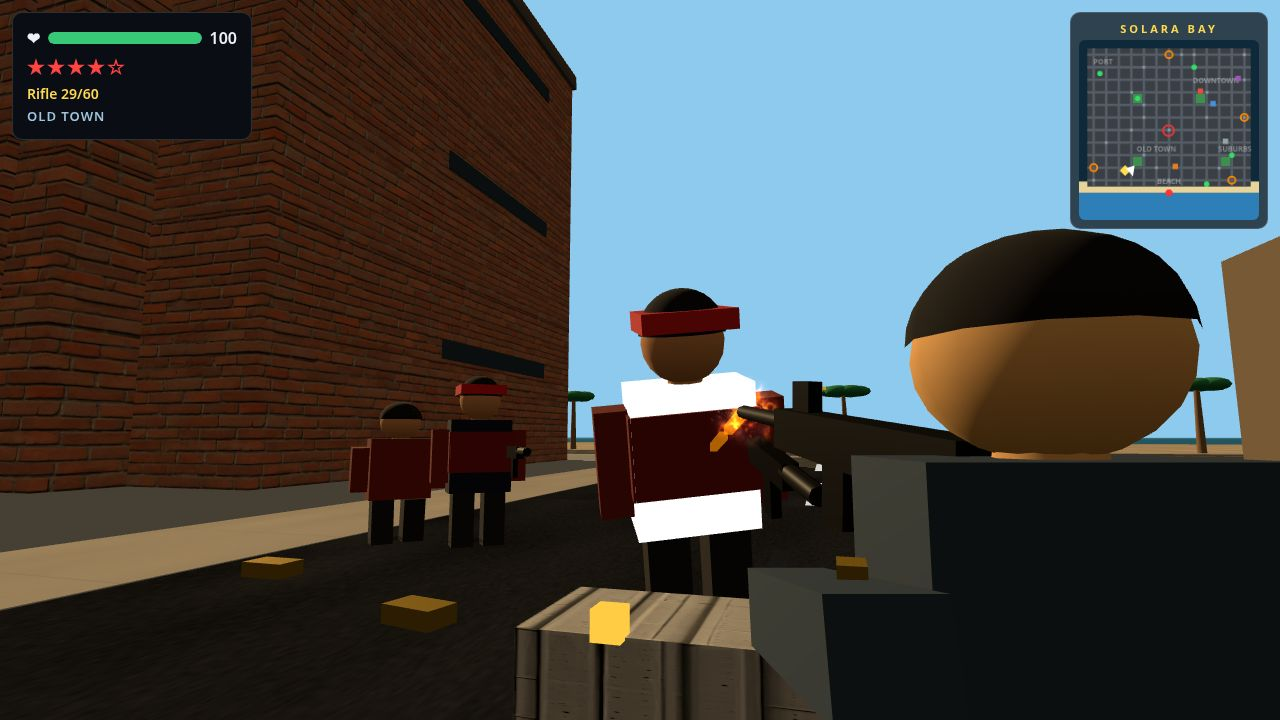
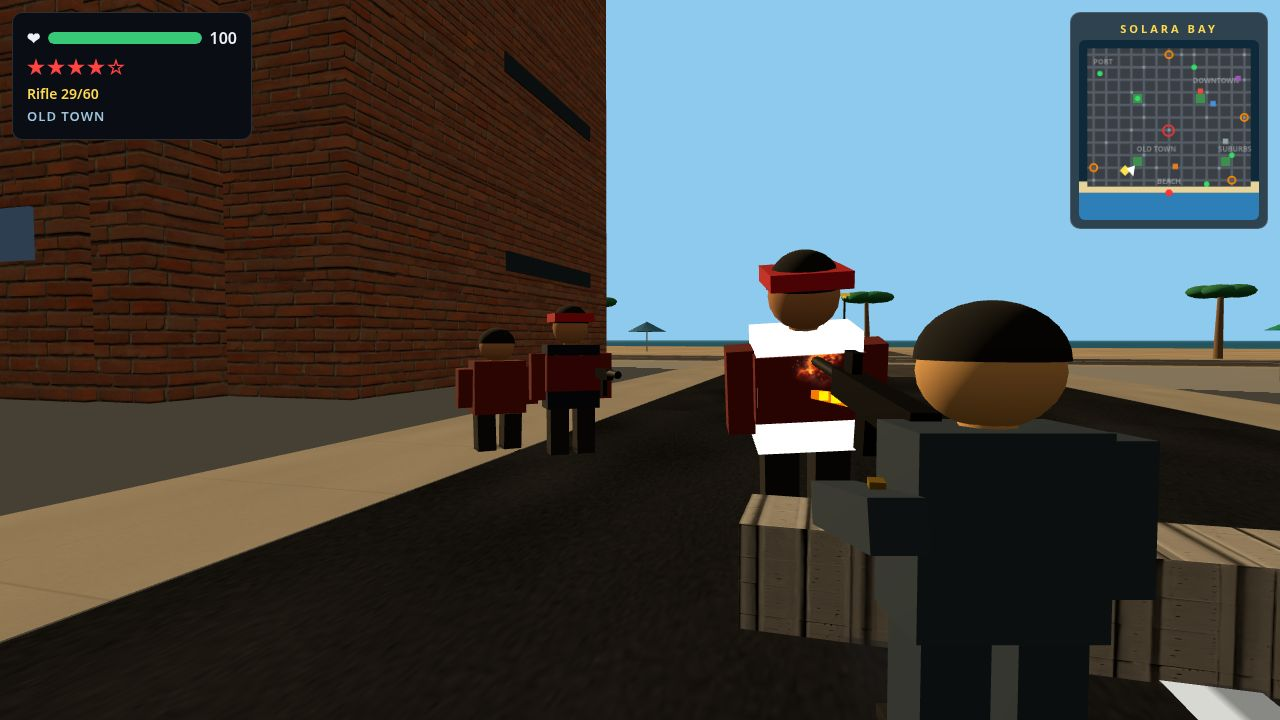
v26: pull OTS back + full tracer + building detail (round 14 one fix + user notes)

diff --git a/game/src/shots.js b/game/src/shots.js
@@ -125,7 +125,7 @@ function stageGunfight(game) {
   player.ownedWeapons = ['pistol', 'rifle'];
   player.mag = 30;
   player.ammo = 60;
-  player.pos.set(-180.66, 0, 192.93);
+  player.pos.set(-178.86, 0, 192.93);
   player.heading = 0.286;
   player.mesh.position.copy(player.pos);
   player.mesh.rotation.y = player.heading;
@@ -133,36 +133,36 @@ function stageGunfight(game) {
   player.mesh.scale.y = 0.85;
   const rifle = player.mesh.userData.rifle;
   rifle.position.set(0.15, 1.62, 0.75);
-  rifle.rotation.set(-0.12, 0.119, 0);
+  rifle.rotation.set(-0.12, -0.051, 0);
   rifle.scale.setScalar(1.4);
-  if (game.textures.shadow) { const s = new ME(new PG(.9,.5), SH(game.textures.shadow,.5)); s.rotation.x = -PI / 2; s.position.set(-180.66, .1, 192.93); game.scene.add(s); }
+  if (game.textures.shadow) { const s = new ME(new PG(.9,.5), SH(game.textures.shadow,.5)); s.rotation.x = -PI / 2; s.position.set(-178.86, .1, 192.93); game.scene.add(s); }
   const barrier = new ME(new BX(3, 0.65, 0.7), new MS({ map: game.textures.concrete, roughness: 0.9 }));
-  barrier.position.set(-180.5, 0.325, 194.1);
+  barrier.position.set(-179.3, 0.325, 194.1);
   barrier.castShadow = true;
   game.scene.add(barrier);
-  game.combat.spawnGunman(-179.3,196.1).mesh.scale.setScalar(1.15);
-  const g2 = game.combat.spawnGunman(-176, 198.5);
+  for(const wy of[4.45,11.45]){const w=new ME(new BX(13,1.4,.1),new MB({color:0x2c3e50}));w.position.set(-151.7,wy,201.6);game.scene.add(w);}
+  game.combat.spawnGunman(-178.1,196.1).mesh.scale.setScalar(1.15);
+  const g2 = game.combat.spawnGunman(-174.8, 198.5);
   g2.mesh.rotation.y = .6;
-  const th = game.combat.spawnThug(-174.8, 198.5);
+  const th = game.combat.spawnThug(-173.6, 198.5);
   th.mesh.rotation.x = .3;
   th.mesh.scale.y = .85;
   for (const e of game.combat.enemies) e.mesh.children[8].visible = e.mesh.children[9].visible = false;
   game.police.state.wanted = 4;
   camB(game);
-  game.camDist = 1.6;
-  game.camPitch = -0.12;
-  game.camX = 0.9;
-  for (const [cx, cz] of [[-180, 192.4], [-181.5, 191.9], [-179.5, 192.6], [-181, 193]]) game.combat.spawnCasing(new V3(cx, 0.1, cz), player.heading);
-  skid(game, -180.5, 196);
+  game.camDist = 2.8;
+  game.camPitch = 0.036;
+  game.camX = 1.4;
+  skid(game, -179.3, 196);
   game.input.fireAction(ACTION_SHOOT);
   game.step(STEP);
-  game.combat.spawnSparks(new V3(-179.4, 0.7, 193.75), 0xffcc44, 5);
   for (const c of game.police.state.cars) place(c, 0, 300, 0);
 }
 function stageDowntown(game) {
   game.missions.setProgress(3, 0);
   const taxi = game.cars.parked.find((c) => c.model === 'taxi') || game.cars.parked[0];
   place(taxi, 266, -183, PI);
+  taxi.mesh.children.at(-1).position.x = .3;
   game.police.state.wanted = 4;
   taxi.speed = 0;
   enterCar(game, taxi);
@@ -171,7 +171,7 @@ function stageDowntown(game) {
     g.position.set(268, 0.75, gz);
     game.scene.add(g);
   }
-  const b=new ME(new PG(2.4,1.4),new MB({color:0xff2a1e,transparent:true,opacity:.22,depthWrite:false}));b.rotation.x=-PI/2;b.position.set(256,.1,-183);game.scene.add(b);
+  const b=new ME(new PG(2.4,1.4),new MB({color:0xff2a1e,transparent:true,opacity:.14,depthWrite:false}));b.rotation.x=-PI/2;b.position.set(259,.1,-183);game.scene.add(b);
   const spots = [
     { x: 180, z: -177, prev: '120,-180', target: '240,-180', h: PI },
     { x: 220, z: -177, prev: '180,-180', target: '300,-180', h: PI },

diff --git a/game/src/combat.js b/game/src/combat.js
@@ -153,12 +153,12 @@ export function createCombat(game) {
   }
   function spawnTracer(from, to, color = 0xffe14d) {
     const dir = new V3().subVectors(to, from);
-    const len = Math.min(dir.length(), 3);
+    const len = dir.length();
     if (len < 0.1) return;
     dir.normalize();
-    for (let i = 0; i < 3; i++) {
-      const tracer = new ME(new BX(0.05, 0.05, len / 4), new MB({ color, transparent: true, opacity: 0.7 }));
-      tracer.position.copy(from).addScaledVector(dir, len * (i + 0.5) / 3);
+    for (let i = 0; i < 6; i++) {
+      const tracer = new ME(new BX(.07, .07, len / 6), new MB({ color, transparent: true, opacity: .9, blending: AB }));
+      tracer.position.copy(from).addScaledVector(dir, len * (i + .5) / 6);
       tracer.lookAt(to);
       game.scene.add(tracer);
       tracers.push({ mesh: tracer, life: 0.16 });
@@ -251,7 +251,8 @@ export function createCombat(game) {
     }
     const tg = bestEnemy || bestCar;
     const end = tg ? new V3(tg.pos.x, 1.2, tg.pos.z) : new V3(player.pos.x + fx * bestDist, 1.2, player.pos.z + fz * bestDist);
-    spawnTracer(muzzle, end, game.player.weapon === 'rifle' ? 0xff9500 : 0xffe14d);
+    const tf = player.weapon === 'rifle' && rf ? rf.localToWorld(new V3(0, .02, -.2)) : muzzle;
+    spawnTracer(tf, end, game.player.weapon === 'rifle' ? 0xff9500 : 0xffe14d);
     spawnFlash(muzzle);
     spawnCasing(player.pos, player.heading);
     game.hud.hitmark();
@@ -368,7 +369,7 @@ export function createCombat(game) {
     for (let i = tracers.length - 1; i >= 0; i -= 1) {
       const tracer = tracers[i];
       tracer.life -= dt;
-      tracer.mesh.material.opacity = Math.max(0, Math.min(1, tracer.life / 0.16)) * 0.7;
+      tracer.mesh.material.opacity = Math.max(0, Math.min(1, tracer.life / 0.16)) * .9;
       if (tracer.life <= 0) {
         game.scene.remove(tracer.mesh);
         tracers.splice(i, 1);

diff --git a/probe26.py b/probe26.py
@@ -1,0 +1,97 @@
+import sys, asyncio
+from playwright.async_api import async_playwright
+
+JS = r"""
+() => {
+  const g = window.__game;
+  const out = {};
+  const V3 = g.camera.position.constructor;
+  const V = (x, y, z) => new V3(x, y, z);
+  function proj(v3) {
+    const v = v3.clone().project(g.camera);
+    return [Math.round((v.x + 1) / 2 * 1280), Math.round((1 - v.y) / 2 * 720), +v.z.toFixed(2)];
+  }
+  const p = g.player;
+  out.playerPos = [p.pos.x, p.pos.z, +p.heading.toFixed(3)];
+  out.cam = [g.camera.position.x.toFixed(2), g.camera.position.y.toFixed(2), g.camera.position.z.toFixed(2)];
+  out.camDist = g.camDist; out.camPitch = g.camPitch; out.camX = g.camX;
+  // player head: mesh is a group; find head sphere approx via children bounding box
+  const pm = p.mesh;
+  pm.updateWorldMatrix(true, true);
+  out.playerBox = null;
+  // head sphere: children of player mesh - find the sphere geometry child near top
+  let head = null;
+  pm.traverse(o => { if (o.geometry && o.geometry.type === 'SphereGeometry' && o.position.y > 1.2) head = o; });
+  if (head) {
+    const wp = new V3(); head.getWorldPosition(wp);
+    out.headWorld = [wp.x.toFixed(2), wp.y.toFixed(2), wp.z.toFixed(2)];
+    out.headScreen = proj(wp);
+    const r = head.geometry.parameters.radius * (head.scale.x || 1);
+    out.headR = +r.toFixed(3);
+    // project head left/right edges: offset along camera-right
+    const right = new V3(1, 0, 0).applyQuaternion(g.camera.quaternion);
+    out.headL = proj(wp.clone().addScaledVector(right, -r));
+    out.headRr = proj(wp.clone().addScaledVector(right, r));
+    out.headT = proj(wp.clone().add(new V3(0, r, 0)));
+    out.headB = proj(wp.clone().add(new V3(0, -r, 0)));
+  }
+  // rifle local points -> screen
+  const rf = pm.userData.rifle;
+  if (rf) {
+    for (const [nm, lp] of [['tip', [0, 0.02, 0.93]], ['mid', [0, 0.02, 0.3]], ['body', [0, 0.02, -0.2]], ['stock', [0, 0.02, -0.45]]]) {
+      out['rifle_' + nm] = proj(rf.localToWorld(new V3(...lp)));
+    }
+  }
+  // gunman sternum (first enemy = duellist)
+  const gm = g.combat.enemies[0];
+  if (gm) {
+    out.duellistPos = [gm.pos.x, gm.pos.z];
+    out.sternum = proj(new V3(gm.pos.x, 1.2, gm.pos.z));
+    out.duellistHead = proj(new V3(gm.pos.x, 1.75, gm.pos.z));
+    out.duellistFeet = proj(new V3(gm.pos.x, 0, gm.pos.z));
+    out.duellistBox = null;
+  }
+  // red men
+  out.redMen = g.combat.enemies.slice(1).map(e => ({ pos: [e.pos.x, e.pos.z], chest: proj(new V3(e.pos.x, 1.1, e.pos.z)) }));
+  // tracers: list live tracer mesh positions projected
+  out.tracers = [];
+  g.scene.traverse(o => {
+    if (o.material && o.material.color && o.material.color.getHex && o.material.color.getHex() === 0xff9500 && o.geometry && o.geometry.type === 'BoxGeometry') {
+      const wp = new V3(); o.getWorldPosition(wp);
+      out.tracers.push(proj(wp));
+    }
+  });
+  // flash sprites
+  out.sprites = [];
+  g.scene.traverse(o => {
+    if (o.isSprite) { const wp = new V3(); o.getWorldPosition(wp); out.sprites.push([o.scale.x, proj(wp)]); }
+  });
+  // big brick buildings near duel: box meshes with brick-ish material, within 40m of player
+  out.buildings = [];
+  g.scene.traverse(o => {
+    if (o.geometry && o.geometry.type === 'BoxGeometry' && o.position) {
+      const dx = o.position.x - p.pos.x, dz = o.position.z - p.pos.z;
+      const d = Math.hypot(dx, dz);
+      const geo = o.geometry.parameters;
+      if (d < 45 && geo && geo.height > 6 && geo.width > 6) {
+        out.buildings.push({ pos: [o.position.x.toFixed(1), o.position.y.toFixed(1), o.position.z.toFixed(1)], size: [geo.width, geo.height, geo.depth], dist: +d.toFixed(1), mat: o.material && o.material.map ? 'tex' : (o.material && o.material.color ? '#' + o.material.color.getHexString() : '?') });
+      }
+    }
+  });
+  return out;
+}
+"""
+
+async def main():
+    shot = sys.argv[1] if len(sys.argv) > 1 else 'gunfight'
+    async with async_playwright() as p:
+        b = await p.chromium.launch(args=['--use-gl=swiftshader', '--enable-unsafe-swiftshader', '--no-sandbox'])
+        pg = await b.new_page(viewport={'width': 1280, 'height': 720})
+        await pg.goto(f'http://localhost:8080/?shot={shot}&seed=7', wait_until='load')
+        await pg.wait_for_function('window.__shotReady === true', timeout=60000)
+        await pg.wait_for_timeout(300)
+        import json
+        print(json.dumps(await pg.evaluate(JS), indent=1))
+        await b.close()
+
+asyncio.run(main())

diff --git a/probe26b.py b/probe26b.py
@@ -1,0 +1,72 @@
+import sys, asyncio, json
+from playwright.async_api import async_playwright
+
+JS = r"""
+() => {
+  const g = window.__game;
+  const out = {};
+  const V3 = g.camera.position.constructor;
+  function proj(v3) {
+    const v = v3.clone().project(g.camera);
+    return [Math.round((v.x + 1) / 2 * 1280), Math.round((1 - v.y) / 2 * 720), +v.z.toFixed(2)];
+  }
+  const p = g.player;
+  // wall mapping: all box meshes within 45m, project 8 corners -> screen bbox
+  out.walls = [];
+  g.scene.traverse(o => {
+    if (!o.geometry || o.geometry.type !== 'BoxGeometry' || !o.position) return;
+    const dx = o.position.x - p.pos.x, dz = o.position.z - p.pos.z;
+    if (Math.hypot(dx, dz) > 45) return;
+    const geo = o.geometry.parameters;
+    if (!geo || geo.height < 6 || geo.width < 6) return;
+    o.updateWorldMatrix(true, false);
+    const hw = geo.width / 2, hh = geo.height / 2, hd = geo.depth / 2;
+    const pts = [];
+    for (const sx of [-1, 1]) for (const sy of [-1, 1]) for (const sz of [-1, 1])
+      pts.push(proj(new V3(o.position.x + sx * hw, o.position.y + sy * hh, o.position.z + sz * hd)));
+    const xs = pts.map(q => q[0]), ys = pts.map(q => q[1]);
+    const vis = pts.filter(q => q[2] < 1).length;
+    out.walls.push({ pos: [+(o.position.x).toFixed(1), +(o.position.y).toFixed(1), +(o.position.z).toFixed(1)], size: [+geo.width.toFixed(1), +geo.height.toFixed(1), +geo.depth.toFixed(1)], faceZmin: +(o.position.z - hd).toFixed(1), screen: [Math.min(...xs), Math.min(...ys), Math.max(...xs), Math.max(...ys)], vis });
+  });
+  // shot 3 specifics if taxi exists
+  const taxi = g.player.car;
+  if (taxi) {
+    const L = 4.4; // approx taxi length; use bodyLen if present
+    const bl = taxi.mesh.userData.bodyLen || 4.4;
+    out.taxi = { pos: [taxi.pos.x, taxi.pos.z], heading: taxi.heading, bodyLen: bl,
+      rearBumper: proj(new V3(taxi.pos.x - Math.cos(0) * 0, 0.4, taxi.pos.z)), // placeholder
+    };
+    // car forward is local +x; world forward = rotate by heading: (cos h, -sin h)?? use mesh matrix
+    const fwd = new V3(1, 0, 0).applyQuaternion(taxi.mesh.quaternion);
+    const rear = new V3(taxi.pos.x, 0.4, taxi.pos.z).addScaledVector(fwd, -bl / 2 - 0.05);
+    const front = new V3(taxi.pos.x, 0.4, taxi.pos.z).addScaledVector(fwd, bl / 2 + 0.05);
+    out.taxi.rearBumper = proj(rear);
+    out.taxi.frontBumper = proj(front);
+    out.taxi.roofRear = proj(new V3(taxi.pos.x, 1.5, taxi.pos.z).addScaledVector(fwd, -bl / 2));
+    // bleed plane: find red transparent plane near taxi
+    out.bleed = null; out.shadowChild = null;
+    g.scene.traverse(o => {
+      if (o.geometry && o.geometry.type === 'PlaneGeometry' && o.material && o.material.color && o.material.color.getHex() === 0xff2a1e) {
+        const wp = new V3(); o.getWorldPosition(wp);
+        out.bleed = { world: [+(wp.x).toFixed(1), +(wp.y).toFixed(2), +(wp.z).toFixed(1)], screen: proj(wp), op: o.material.opacity };
+      }
+    });
+    // taxi children order
+    out.taxiChildren = taxi.mesh.children.map((c, i) => ({ i, geo: c.geometry ? c.geometry.type : 'group', mat: c.material && c.material.map ? 'tex' : (c.material && c.material.color ? '#' + c.material.color.getHexString() : '?'), pos: [+(c.position.x).toFixed(2), +(c.position.y).toFixed(2), +(c.position.z).toFixed(2)] }));
+  }
+  return out;
+}
+"""
+
+async def main():
+    shot = sys.argv[1] if len(sys.argv) > 1 else 'gunfight'
+    async with async_playwright() as p:
+        b = await p.chromium.launch(args=['--use-gl=swiftshader', '--enable-unsafe-swiftshader', '--no-sandbox'])
+        pg = await b.new_page(viewport={'width': 1280, 'height': 720})
+        await pg.goto(f'http://localhost:8080/?shot={shot}&seed=7', wait_until='load')
+        await pg.wait_for_function('window.__shotReady === true', timeout=60000)
+        await pg.wait_for_timeout(300)
+        print(json.dumps(await pg.evaluate(JS), indent=1))
+        await b.close()
+
+asyncio.run(main())
